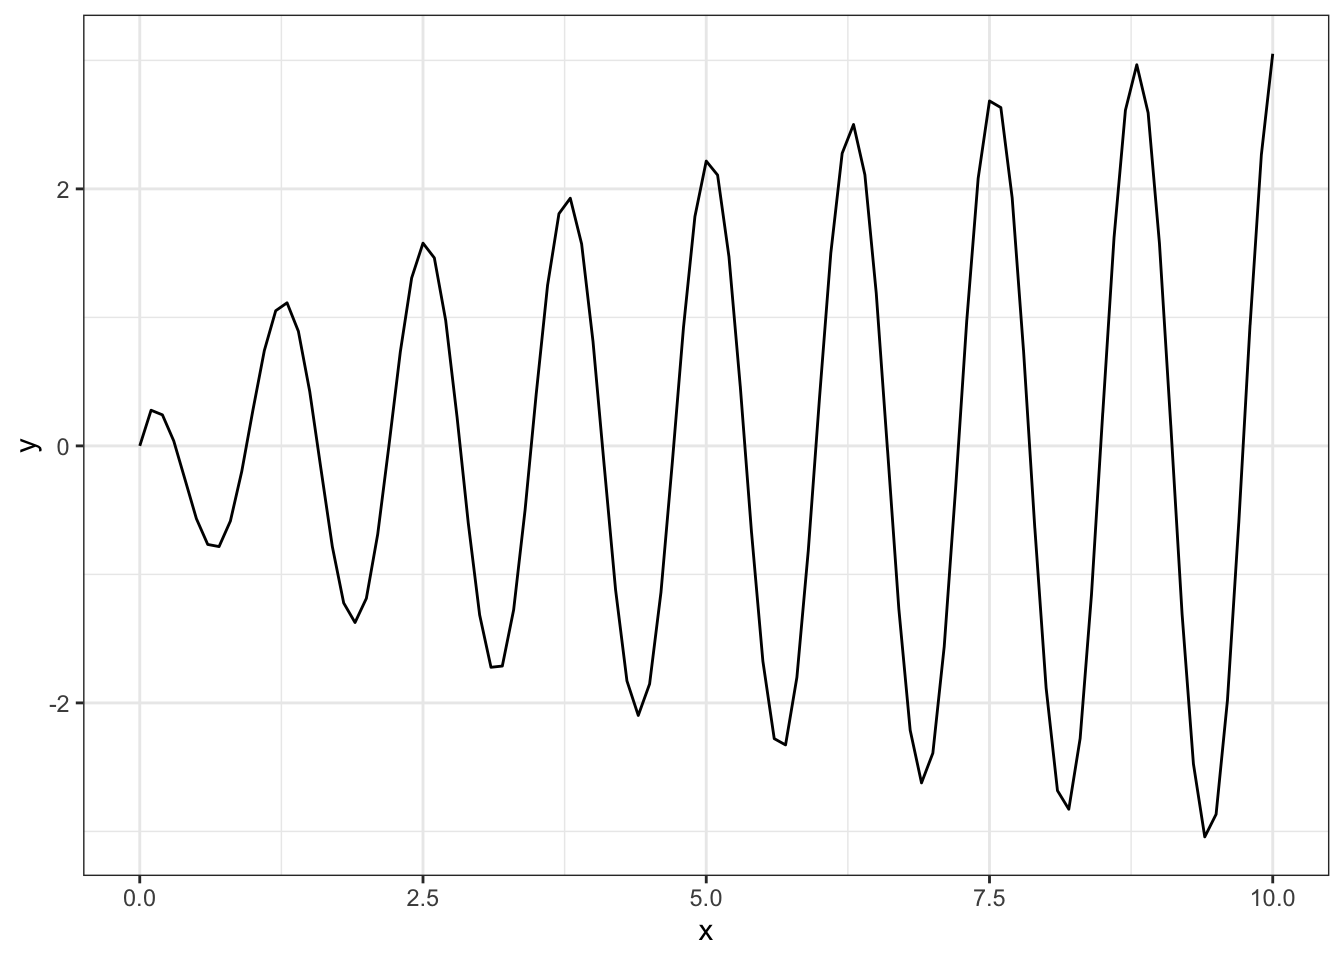
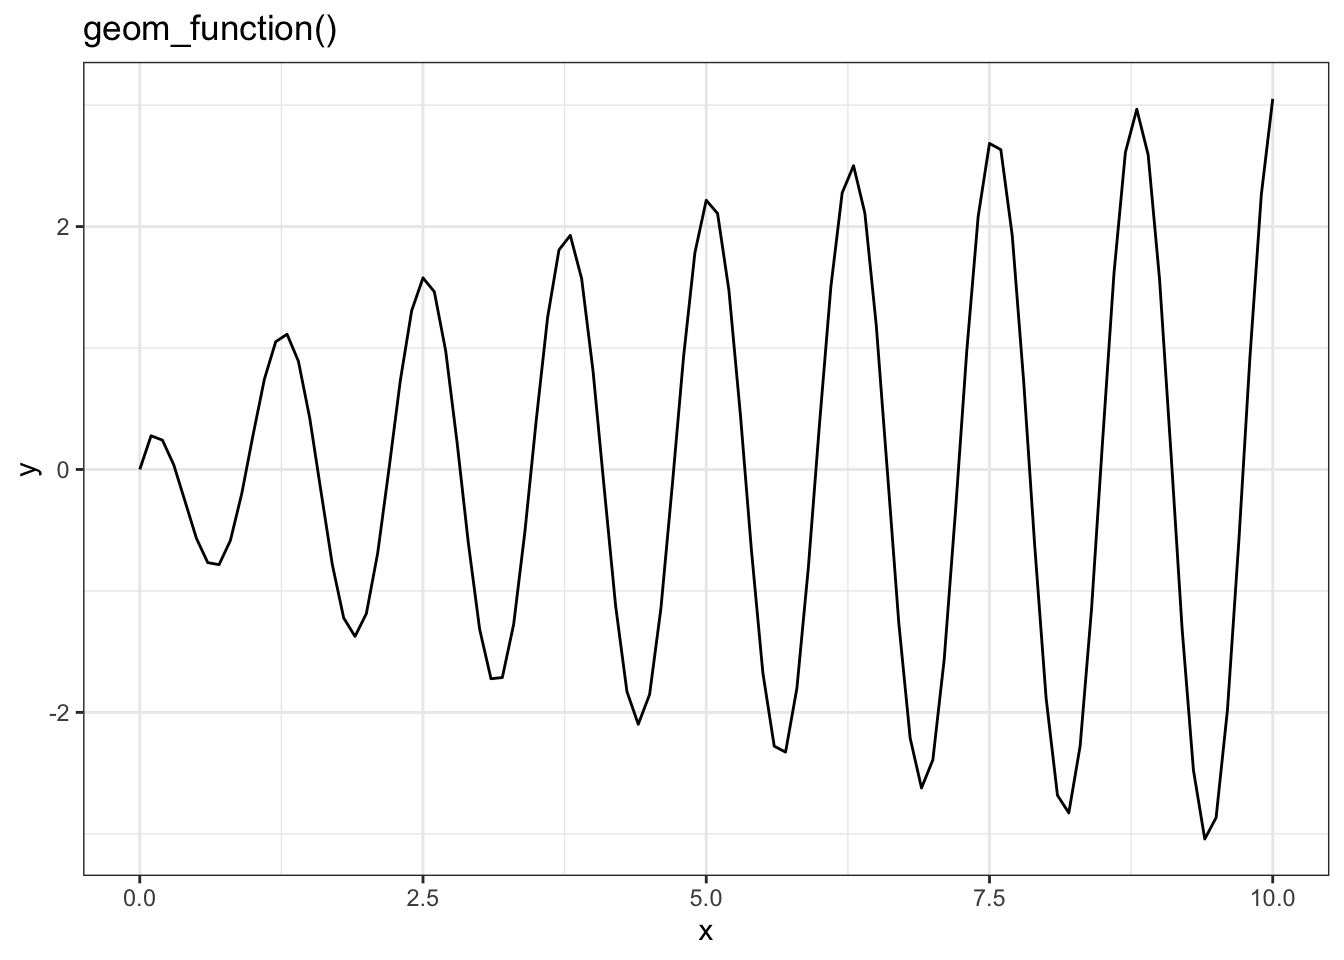
28

diff --git a/programming/functions.html b/programming/functions.html
@@ -7,7 +7,7 @@
 <meta name="viewport" content="width=device-width, initial-scale=1.0, user-scalable=yes">
 
 
-<title>WebR - Functions</title>
+<title>WebR - functions</title>
 <style>
 code{white-space: pre-wrap;}
 span.smallcaps{font-variant: small-caps;}
@@ -19,6 +19,40 @@ ul.task-list li input[type="checkbox"] {
   width: 0.8em;
   margin: 0 0.8em 0.2em -1em; /* quarto-specific, see https://github.com/quarto-dev/quarto-cli/issues/4556 */ 
   vertical-align: middle;
+}
+/* CSS for syntax highlighting */
+pre > code.sourceCode { white-space: pre; position: relative; }
+pre > code.sourceCode > span { line-height: 1.25; }
+pre > code.sourceCode > span:empty { height: 1.2em; }
+.sourceCode { overflow: visible; }
+code.sourceCode > span { color: inherit; text-decoration: inherit; }
+div.sourceCode { margin: 1em 0; }
+pre.sourceCode { margin: 0; }
+@media screen {
+div.sourceCode { overflow: auto; }
+}
+@media print {
+pre > code.sourceCode { white-space: pre-wrap; }
+pre > code.sourceCode > span { text-indent: -5em; padding-left: 5em; }
+}
+pre.numberSource code
+  { counter-reset: source-line 0; }
+pre.numberSource code > span
+  { position: relative; left: -4em; counter-increment: source-line; }
+pre.numberSource code > span > a:first-child::before
+  { content: counter(source-line);
+    position: relative; left: -1em; text-align: right; vertical-align: baseline;
+    border: none; display: inline-block;
+    -webkit-touch-callout: none; -webkit-user-select: none;
+    -khtml-user-select: none; -moz-user-select: none;
+    -ms-user-select: none; user-select: none;
+    padding: 0 4px; width: 4em;
+  }
+pre.numberSource { margin-left: 3em;  padding-left: 4px; }
+div.sourceCode
+  {   }
+@media screen {
+pre > code.sourceCode > span > a:first-child::before { text-decoration: underline; }
 }
 </style>
 
@@ -404,14 +438,21 @@ ul.task-list li input[type="checkbox"] {
 <div id="quarto-sidebar-glass" class="quarto-sidebar-collapse-item" data-bs-toggle="collapse" data-bs-target=".quarto-sidebar-collapse-item"></div>
 <!-- margin-sidebar -->
     <div id="quarto-margin-sidebar" class="sidebar margin-sidebar">
-        
-    <div class="quarto-alternate-formats"><h2>Other Formats</h2><ul><li><a href="functions.pdf"><i class="bi bi-file-pdf"></i>PDF</a></li></ul></div></div>
+        <nav id="TOC" role="doc-toc" class="toc-active">
+    <h2 id="toc-title">On this page</h2>
+   
+  <ul>
+  <li><a href="#library" id="toc-library" class="nav-link active" data-scroll-target="#library"><span class="header-section-number">1</span> Library</a></li>
+  <li><a href="#functions" id="toc-functions" class="nav-link" data-scroll-target="#functions"><span class="header-section-number">2</span> Functions</a></li>
+  </ul>
+<div class="quarto-alternate-formats"><h2>Other Formats</h2><ul><li><a href="functions.pdf"><i class="bi bi-file-pdf"></i>PDF</a></li></ul></div></nav>
+    </div>
 <!-- main -->
 <main class="content" id="quarto-document-content">
 
 <header id="title-block-header" class="quarto-title-block default"><nav class="quarto-page-breadcrumbs quarto-title-breadcrumbs d-none d-lg-block" aria-label="breadcrumb"><ol class="breadcrumb"><li class="breadcrumb-item"><a href="../programming/functions.html">Programming</a></li><li class="breadcrumb-item"><a href="../programming/functions.html">functions</a></li></ol></nav>
 <div class="quarto-title">
-<h1 class="title">Functions</h1>
+<h1 class="title">functions</h1>
 </div>
 
 
@@ -428,8 +469,34 @@ ul.task-list li input[type="checkbox"] {
 </header>
 
 
+<section id="library" class="level2" data-number="1">
+<h2 data-number="1" class="anchored" data-anchor-id="library"><span class="header-section-number">1</span> Library</h2>
+<div class="cell">
+<div class="sourceCode cell-code" id="cb1"><pre class="sourceCode r code-with-copy"><code class="sourceCode r"><span id="cb1-1"><a href="#cb1-1" aria-hidden="true" tabindex="-1"></a><span class="fu">library</span>(tidyverse)</span></code><button title="Copy to Clipboard" class="code-copy-button"><i class="bi"></i></button></pre></div>
+</div>
+</section>
+<section id="functions" class="level2" data-number="2">
+<h2 data-number="2" class="anchored" data-anchor-id="functions"><span class="header-section-number">2</span> Functions</h2>
+<div class="cell">
+<div class="sourceCode cell-code" id="cb2"><pre class="sourceCode r code-with-copy"><code class="sourceCode r"><span id="cb2-1"><a href="#cb2-1" aria-hidden="true" tabindex="-1"></a><span class="co"># an example of single parameter</span></span>
+<span id="cb2-2"><a href="#cb2-2" aria-hidden="true" tabindex="-1"></a></span>
+<span id="cb2-3"><a href="#cb2-3" aria-hidden="true" tabindex="-1"></a>f <span class="ot">&lt;-</span> <span class="cf">function</span>(x){</span>
+<span id="cb2-4"><a href="#cb2-4" aria-hidden="true" tabindex="-1"></a>  {(x<span class="dv">-1</span>)<span class="sc">^</span><span class="dv">2</span>}<span class="sc">*</span>(x<span class="sc">+</span><span class="dv">3</span>)</span>
+<span id="cb2-5"><a href="#cb2-5" aria-hidden="true" tabindex="-1"></a>}</span>
+<span id="cb2-6"><a href="#cb2-6" aria-hidden="true" tabindex="-1"></a>x <span class="ot">=</span> <span class="fu">seq</span>(<span class="sc">-</span><span class="dv">2</span>,<span class="dv">2</span>)</span>
+<span id="cb2-7"><a href="#cb2-7" aria-hidden="true" tabindex="-1"></a><span class="fu">data.frame</span>(x, <span class="at">y=</span><span class="fu">f</span>(x))</span></code><button title="Copy to Clipboard" class="code-copy-button"><i class="bi"></i></button></pre></div>
+<div class="cell-output cell-output-stdout">
+<pre><code>   x y
+1 -2 9
+2 -1 8
+3  0 3
+4  1 0
+5  2 5</code></pre>
+</div>
+</div>
 
 
+</section>
 
 </main> <!-- /main -->
 <script id="quarto-html-after-body" type="application/javascript">

diff --git a/ggplots/curves.html b/ggplots/curves.html
@@ -480,7 +480,9 @@ pre > code.sourceCode > span > a:first-child::before { text-decoration: underlin
 <h2 data-number="2" class="anchored" data-anchor-id="baser-curve"><span class="header-section-number">2</span> BaseR:: curve()</h2>
 <p><code>curve()</code> is a useful baseR function for plotting continuous functions in R. The ggplot equivalent is <code>geom_function()</code> as shown below.</p>
 <div class="cell">
-<div class="sourceCode cell-code" id="cb2"><pre class="sourceCode r code-with-copy"><code class="sourceCode r"><span id="cb2-1"><a href="#cb2-1" aria-hidden="true" tabindex="-1"></a><span class="fu">curve</span>(<span class="fu">sqrt</span>(x)<span class="sc">*</span><span class="fu">cos</span>(<span class="dv">5</span><span class="sc">*</span>x), <span class="at">from=</span><span class="dv">0</span>, <span class="at">to=</span><span class="dv">10</span>)</span></code><button title="Copy to Clipboard" class="code-copy-button"><i class="bi"></i></button></pre></div>
+<div class="sourceCode cell-code" id="cb2"><pre class="sourceCode r code-with-copy"><code class="sourceCode r"><span id="cb2-1"><a href="#cb2-1" aria-hidden="true" tabindex="-1"></a>ylim<span class="ot">=</span><span class="fu">c</span>(<span class="sc">-</span><span class="dv">3</span>,<span class="dv">12</span>)</span>
+<span id="cb2-2"><a href="#cb2-2" aria-hidden="true" tabindex="-1"></a><span class="fu">curve</span>({(x<span class="dv">-1</span>)<span class="sc">^</span><span class="dv">2</span>}<span class="sc">*</span>(x<span class="sc">+</span><span class="dv">3</span>), <span class="at">from=</span><span class="sc">-</span><span class="dv">3</span>, <span class="at">to=</span><span class="dv">2</span>, <span class="at">col=</span><span class="st">"blue"</span>, <span class="at">lwd=</span><span class="dv">2</span>, <span class="at">ylim=</span>ylim, <span class="at">main=</span><span class="st">'curve()'</span>, <span class="at">ylab=</span><span class="st">"y"</span>)</span>
+<span id="cb2-3"><a href="#cb2-3" aria-hidden="true" tabindex="-1"></a><span class="fu">curve</span>(<span class="fu">sin</span>(x<span class="sc">^</span><span class="dv">2</span>)<span class="sc">+</span><span class="dv">4</span>,  <span class="at">from=</span><span class="sc">-</span><span class="dv">3</span>, <span class="at">to=</span><span class="dv">2</span>, <span class="at">col=</span><span class="st">"red"</span>,  <span class="at">lwd=</span><span class="dv">2</span>,  <span class="at">ylim=</span>ylim,<span class="at">ylab=</span><span class="st">"y"</span>, <span class="at">add=</span><span class="cn">TRUE</span>)</span></code><button title="Copy to Clipboard" class="code-copy-button"><i class="bi"></i></button></pre></div>
 <div class="cell-output-display">
 <div>
 <figure class="figure">
@@ -499,7 +501,8 @@ pre > code.sourceCode > span > a:first-child::before { text-decoration: underlin
 <span id="cb3-4"><a href="#cb3-4" aria-hidden="true" tabindex="-1"></a>}</span>
 <span id="cb3-5"><a href="#cb3-5" aria-hidden="true" tabindex="-1"></a><span class="fu">ggplot</span>(<span class="fu">data.frame</span>(x), <span class="fu">aes</span>(<span class="at">x=</span>x))<span class="sc">+</span></span>
 <span id="cb3-6"><a href="#cb3-6" aria-hidden="true" tabindex="-1"></a>  <span class="fu">geom_function</span>(<span class="at">fun=</span>fn)<span class="sc">+</span></span>
-<span id="cb3-7"><a href="#cb3-7" aria-hidden="true" tabindex="-1"></a>  <span class="fu">theme_bw</span>()</span></code><button title="Copy to Clipboard" class="code-copy-button"><i class="bi"></i></button></pre></div>
+<span id="cb3-7"><a href="#cb3-7" aria-hidden="true" tabindex="-1"></a>  <span class="fu">theme_bw</span>()<span class="sc">+</span></span>
+<span id="cb3-8"><a href="#cb3-8" aria-hidden="true" tabindex="-1"></a>  <span class="fu">ggtitle</span>(<span class="st">"geom_function()"</span>)</span></code><button title="Copy to Clipboard" class="code-copy-button"><i class="bi"></i></button></pre></div>
 <div class="cell-output-display">
 <div>
 <figure class="figure">
